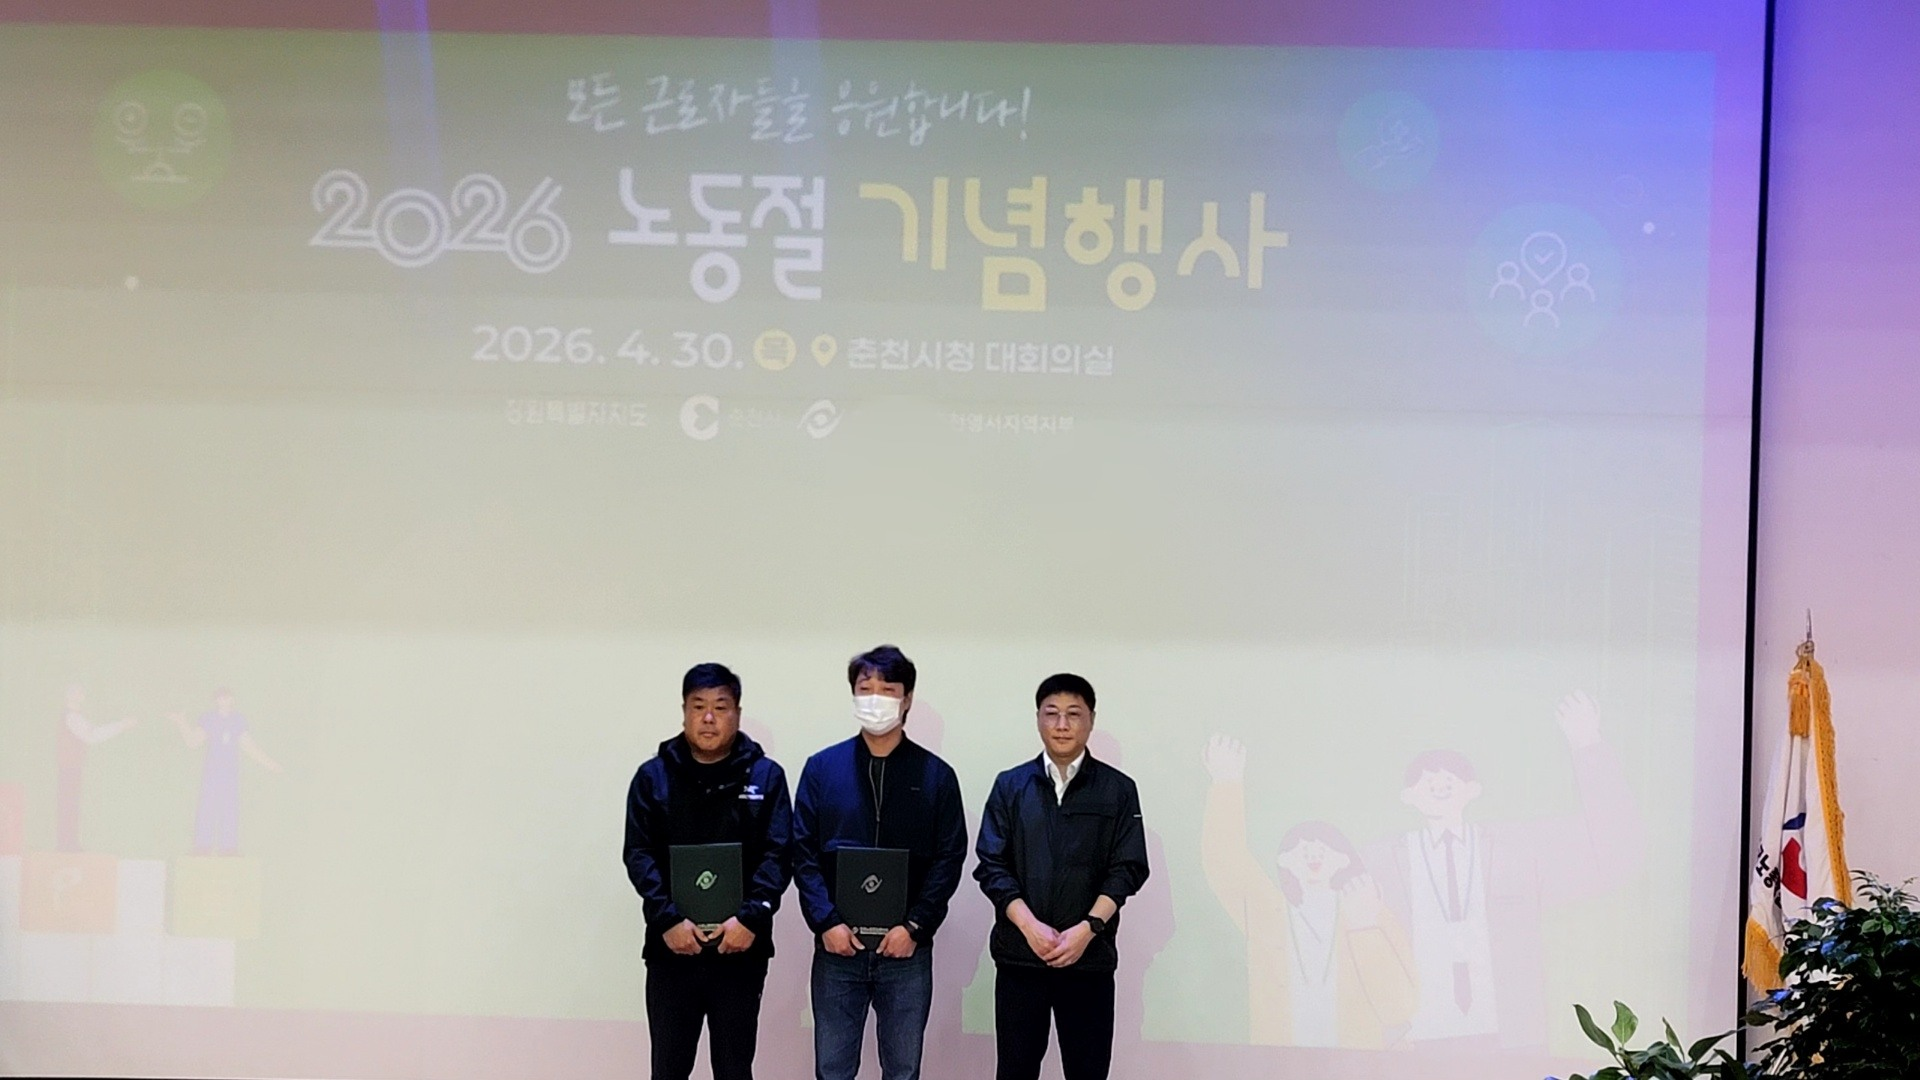
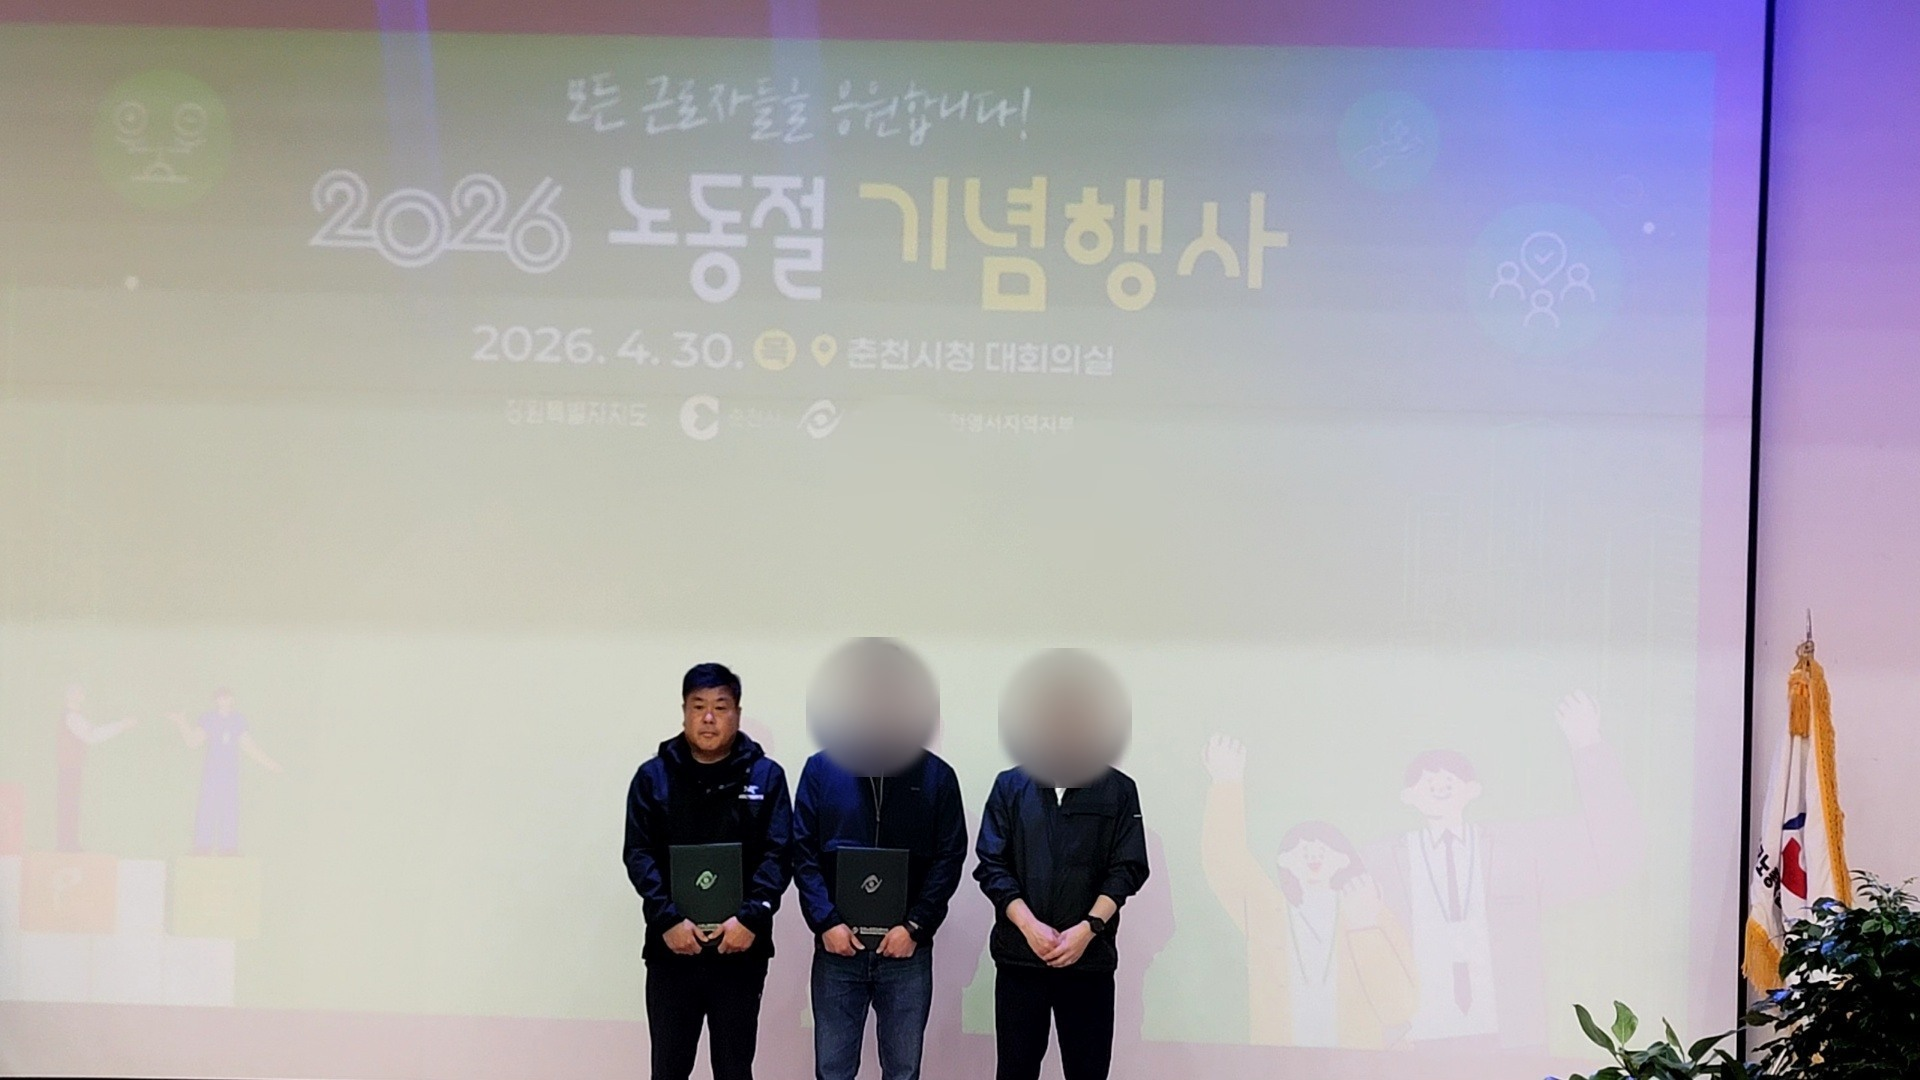
Add files via upload

Changed region(s): [[0.4062, 0.5806, 0.5938, 0.7333]]

diff --git a/representative.html b/representative.html
@@ -387,34 +387,46 @@ nav a:hover .nav-chevron,nav a:focus-visible .nav-chevron,nav a:active .nav-chev
 </div></footer>
 <dialog id="privacyDialog"><div class="privacy-box"><button class="close" onclick="this.closest('dialog').close()">닫기</button><h3>개인정보처리방침</h3><p>국제크레인은 문의 과정에서 제공받은 정보를 상담 및 작업 안내 목적 외에는 사용하지 않습니다.</p></div></dialog>
 
-<script>
-const repSlides=[...document.querySelectorAll('.rep-slide')];
-let repIndex=0;
-const repCount=document.getElementById('repCount');
-function showRep(n){
-  repIndex=(n+repSlides.length)%repSlides.length;
-  repSlides.forEach((s,i)=>s.classList.toggle('active',i===repIndex));
-  repCount.textContent=(repIndex+1)+' / '+repSlides.length;
-}
-document.querySelector('.rep-prev').addEventListener('click',()=>showRep(repIndex-1));
-document.querySelector('.rep-next').addEventListener('click',()=>showRep(repIndex+1));
-document.addEventListener('keydown',e=>{
-  if(e.key==='ArrowLeft') showRep(repIndex-1);
-  if(e.key==='ArrowRight') showRep(repIndex+1);
-});
-document.querySelectorAll('.mega-trigger').forEach(t=>t.addEventListener('click',e=>{
-  if(window.matchMedia('(max-width:700px)').matches){
-    const item=t.closest('.mega-item');
-    const panel=item.querySelector('.mega-panel');
-    if(panel){
-      e.preventDefault();
-      document.querySelectorAll('.mega-item').forEach(x=>{if(x!==item)x.classList.remove('menu-open')});
-      item.classList.toggle('menu-open');
-    }
+<script id="rep-slider-script">
+(function(){
+  const slides=[...document.querySelectorAll('.rep-slide')];
+  const count=document.getElementById('repCount');
+  if(!slides.length) return;
+
+  let i=0;
+  let timer=null;
+  const INTERVAL=4200;
+
+  function show(n){
+    slides[i].classList.remove('active');
+    i=(n+slides.length)%slides.length;
+    slides[i].classList.add('active');
+    if(count) count.textContent=(i+1)+' / '+slides.length;
   }
-}));
-document.addEventListener('click',e=>{
-  if(!e.target.closest('.mega-item')) document.querySelectorAll('.mega-item').forEach(x=>x.classList.remove('menu-open'));
-});
+
+  function stop(){
+    if(timer){ clearInterval(timer); timer=null; }
+  }
+
+  function start(){
+    stop();
+    timer=setInterval(()=>show(i+1), INTERVAL);
+  }
+
+  document.querySelector('.rep-arrow.rep-prev')?.addEventListener('click',()=>{
+    show(i-1);
+    start();
+  });
+  document.querySelector('.rep-arrow.rep-next')?.addEventListener('click',()=>{
+    show(i+1);
+    start();
+  });
+
+  const slider=document.getElementById('repSlider');
+  slider?.addEventListener('mouseenter', stop);
+  slider?.addEventListener('mouseleave', start);
+
+  start();
+})();
 </script>
 </body></html>

diff --git a/activity.html b/activity.html
@@ -430,15 +430,53 @@ document.addEventListener('click',e=>{
 });
 </script>
 
+
 <script id="activity-slider-script">
 (function(){
- const slides=[...document.querySelectorAll('.activity-slide')];
- const count=document.getElementById('activityCount');
- let i=0;
- function show(n){ if(!slides.length)return; slides[i].classList.remove('active'); i=(n+slides.length)%slides.length; slides[i].classList.add('active'); count.textContent=(i+1)+' / '+slides.length; }
- document.querySelector('.activity-arrow.prev')?.addEventListener('click',()=>show(i-1));
- document.querySelector('.activity-arrow.next')?.addEventListener('click',()=>show(i+1));
+  const slides=[...document.querySelectorAll('.activity-slide')];
+  const count=document.getElementById('activityCount');
+  if(!slides.length) return;
+
+  let i=0;
+  let timer=null;
+  const INTERVAL=4200;
+
+  function show(n){
+    slides[i].classList.remove('active');
+    i=(n+slides.length)%slides.length;
+    slides[i].classList.add('active');
+    if(count) count.textContent=(i+1)+' / '+slides.length;
+  }
+
+  function start(){
+    stop();
+    timer=setInterval(()=>show(i+1), INTERVAL);
+  }
+
+  function stop(){
+    if(timer){
+      clearInterval(timer);
+      timer=null;
+    }
+  }
+
+  document.querySelector('.activity-arrow.prev')?.addEventListener('click',()=>{
+    show(i-1);
+    start();
+  });
+
+  document.querySelector('.activity-arrow.next')?.addEventListener('click',()=>{
+    show(i+1);
+    start();
+  });
+
+  const slider=document.getElementById('activitySlider');
+  slider?.addEventListener('mouseenter', stop);
+  slider?.addEventListener('mouseleave', start);
+
+  start();
 })();
 </script>
+
 
 </body></html>
